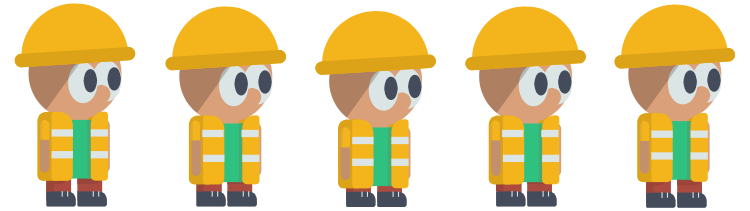
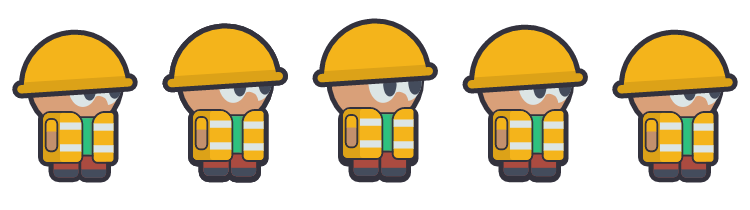
Animazioni fatte meglio

diff --git a/ProvaGame/src/WindowLogic/GamePanel.java b/ProvaGame/src/WindowLogic/GamePanel.java
@@ -27,7 +27,7 @@ public class GamePanel extends JPanel {
 	private BufferedImage img;
 	private BufferedImage[][] animation;
 	
-	private int aniTick , aniIndex , aniSpeed = 15;
+	private int aniTick , aniIndex , aniSpeed = 5;
 	private int playerAction = IDLE;
 	private int playerDir = 0;
 	private boolean moving = false;
@@ -42,17 +42,17 @@ public class GamePanel extends JPanel {
 	
 	private void loadAnimation() { ///metodo per leggere l'immagine del personaggio
 		// TODO Auto-generated method stub
-		animation = new BufferedImage[9][6];
+		animation = new BufferedImage[2][14];
 		for(int j = 0; j < animation.length; j++) {
 			for (int i = 0; i < animation[j].length; i++) {
-				animation[j][i] = img.getSubimage(i * 64,  j* 40, 64, 40);
+				animation[j][i] = img.getSubimage(i * 151,  j* 191, 151, 192);
 			}	
 		}
 	}
 
 	private void importImg() { ///carica l'immagine del personaggio
 		// TODO Auto-generated method stub
-		InputStream is = getClass().getResourceAsStream("/player_sprites.png");
+		InputStream is = getClass().getResourceAsStream("/Anim.png");
 		
 		try {
 			img = ImageIO.read(is);
@@ -99,7 +99,7 @@ public class GamePanel extends JPanel {
 		setAnimation();
 		updateAnimationTick();
 		updatePos();
-		g.drawImage(animation[playerAction][aniIndex], xDelta, yDelta,64,40,null);
+		g.drawImage(animation[playerAction][aniIndex], xDelta, yDelta,152 / 3 ,192 / 3,null);
 		
 
 	}
@@ -109,16 +109,16 @@ public class GamePanel extends JPanel {
 		if(moving) {
 			switch (playerDir) {
 			case LEFT:
-				xDelta -= 5;
+				xDelta -= 1;
 				break;
 			case UP:
-				yDelta -= 5;
+				yDelta -= 1;
 				break;
 			case RIGHR:
-				xDelta += 5;
+				xDelta += 1;
 				break;
 			case DOWN:
-				yDelta += 5;
+				yDelta += 1;
 				break;
 			default:
 				break;

diff --git a/ProvaGame/src/Utility/Constants.java b/ProvaGame/src/Utility/Constants.java
@@ -21,9 +21,9 @@ public class Constants {
 		public static int GetSpriteAmount(int player_action){
 			switch (player_action) {
 			case IDLE:
-				return 5;
+				return 9;
 			case RUNNING:
-				return 6;
+				return 13;
 			default:
 				return 1;
 			}

diff --git a/ProvaGame/src/Ui/MenuButton.java b/ProvaGame/src/Ui/MenuButton.java
@@ -1,0 +1,5 @@
+package Ui;
+
+public class MenuButton {
+
+}
